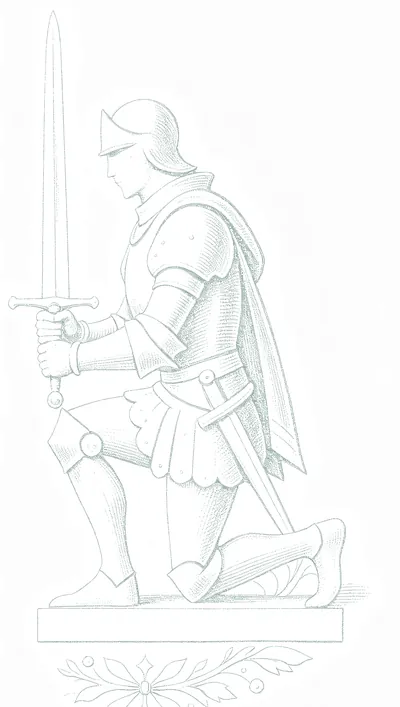
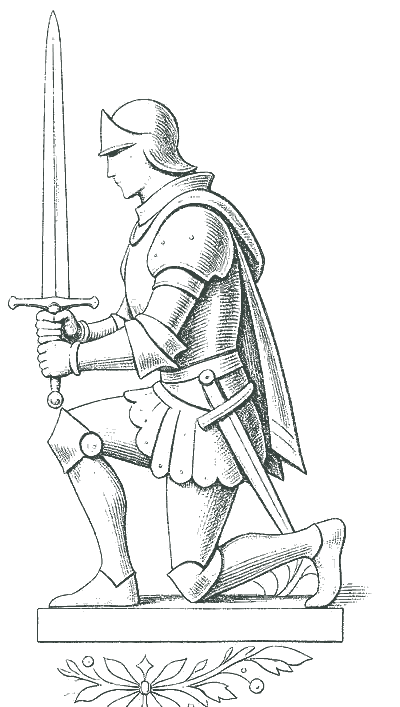
批十：猫头鹰放大 26% 并加 knOwlRise 升起动效 / 去掉挂树梢的小猫头鹰、WELCOME 下加麦穗·ADMITTED 通行印记 / 骑士内移到 9% 并把资产重制成透明底深墨

diff --git a/index.html b/index.html
@@ -577,41 +577,74 @@ img{display:block}
 #knowledgeGate .gknight img{width:100%;height:auto;display:block}
 /* ⭐ 批九：用户"这两尊骑士雕像往中间挪一点啊，别把线都压盖了"。
    ⚠ 原来 3.4%（＝17.68px）正好压住**内层那条细线**（`.env-border` inset 9px ＋ `::before` inset 8px
-   ＝ x17px ≈ 3.27%）—— 光看外层 9px 那条会以为没压到。现在 5.5%＝28.6px，余量 11.6px。 */
-#knowledgeGate .gk-l{left:5.5%}
-#knowledgeGate .gk-r{right:5.5%}
+   ＝ x17px ≈ 3.27%）—— 光看外层 9px 那条会以为没压到。
+   ⭐⭐ 批十：用户"骑士雕像往中间去点嘛，没发现都太靠边边上了嘛" → 5.5% → **9%**（46.8px），
+      离内层细线 29.8px、离信封外沿 46.8px，肉眼一看就是"站在纸面中间偏内"。
+   ⚠⚠ **尺寸不能再放大了**（批十实测）：骑士上方 4.9px 外就是左上徽章的包围盒
+      （徽章批七放大到 80px 后到 y≈89.7px），下方 3px 外是左下收件区（y≈232px）——
+      当前 14% 宽＝132px 高已经把这条竖缝占满；要"更清楚"只能**加深墨色**（见资产重制），
+      不能靠放大。
+   ⚠ 清晰度另一半在资产本身：原图是**白底扫描线稿、墨色极淡**（亮度 p5=223，乘在米纸上几乎
+      看不见），批十已把两张图重制成**透明底 ＋ 深墨**（`alpha = f(亮度)`、白底彻底透明），
+      CSS 里的 `mix-blend-mode:multiply` 保留（深墨 × 米纸＝印上去的凹版线刻）。 */
+#knowledgeGate .gk-l{left:9%}
+#knowledgeGate .gk-r{right:9%}
 #knowledgeGate.unlocked .gknight{opacity:1}
 
-/* ⭐ 批九：用户"这个位置（信封上沿偏右）太空洞了，可以加一些要素上去"。
-   加**一小段探进来的细枝 ＋ 一只小栖鸟**（都复用站内现成资产，零出图）——
-   与正中那只大猫头鹰形成"一大一小、一近一远"的呼应，也让上沿右半边不再是空白。
-   ⚠ 净空：`.gwel`（WELCOME）在 x30~70%/y3.4~7.1% ｜ 右骑士 x80.5~94.5%/y29.6% 起
-      → 本件占 x67~89% / y5~19%，都不相交。⚠ 远山（x22~88%/y7~28%）会与它叠，但那是最淡的一层。 */
-#knowledgeGate .gperch2{position:absolute;left:67%;top:5%;width:26%;z-index:5;
-  opacity:0;pointer-events:none;transition:opacity 1s ease 1.05s}
-#knowledgeGate.unlocked .gperch2{opacity:1}
-#knowledgeGate .gperch2 .gb2{display:block;width:100%;height:auto;
-  transform:scaleX(-1) rotate(-4deg);opacity:.5}
-/* 鸟的落脚点用**枝图自身实测的落脚线**（52.2%，和中央场景同一张图同一套数）→ bottom 47.8%。 */
-#knowledgeGate .gperch2 .kohx{position:absolute;bottom:47.8%;left:34%;width:13%;
-  transform:translateX(-50%)}
-#knowledgeGate .gperch2 .kohx img{display:block;width:100%;height:auto}
+/* ⭐⭐ 批十：信封上沿**偏右那支"细枝＋小栖鸟"整件删除**（批九加的）。
+   用户："把这个猫头鹰挂树梢的要素去掉，在 welcome……下加一个装饰性要素，
+   可以是英文的允许通行啊，或者像政府公文上的麦穗啊等等"。
+   → 两个建议一起用：**一对金色麦穗**（公文风的对称双穗）＋ 居中一行 **`ADMITTED`**
+     （＝允许通行），压在 `.gwel` 正下方。
+   ⭐ 麦穗是**内联 SVG**：零外部资产、零出图、无 `?v=` 要跟；右侧那支用 `scaleX(-1)`
+     镜像 → **只写一份几何**，两支严格对称。
+   ⚠ 层级：必须 `z-index ≥ 5` 且挂 `.mail-env` 下 —— 它落在封口 V（z:4）之内，
+      挂在 `.env-front`（自身 z:3）里会被整个盖掉（`.gwel` 与批九那支枝是同一个坑）。
+   ⚠ 尺寸全走 `--envH` 的百分比（信封宽高随视口变）→ 窄屏自动缩，**不需要媒体查询**。
+      麦穗 11.5% envH ≈ 桌面 40px：再小到 20px 以下时麦粒会落到 1px 内、读不出"穗"。
+   ⚠ 净空（信封坐标，桌面 520×324）：`.`gwel` y3.4~7.1% ｜ 左上徽章 x2.3~17.8%/y2.8~27.7%
+      ｜ 右上抬头 x≈70~93%/y3~17% ｜ 左右骑士 y≥29.6% ｜ 中央场景 y≥32.4%
+      → 本件占 **x38~62% / y10.2~22.5%**，四者全不相交；封口 V 在 y22.5% 处仍宽 x28.5~71.5%。 */
+#knowledgeGate .gperm{position:absolute;left:50%;top:10.2%;margin:0;z-index:5;
+  transform:translateX(-50%);display:flex;align-items:center;
+  gap:calc(var(--envH) * .026);color:rgba(158,122,52,.68);
+  opacity:0;pointer-events:none;transition:opacity .9s ease 2.3s}
+#knowledgeGate.unlocked .gperm{opacity:1}
+#knowledgeGate .gperm em{font-style:normal;font-family:var(--serif);
+  font-size:clamp(6.4px,calc(var(--envH) * .027),9.8px);letter-spacing:.3em;text-indent:.3em;
+  text-transform:uppercase;white-space:nowrap}
+#knowledgeGate .ge-wheat{display:block;height:calc(var(--envH) * .115);width:auto;
+  fill:currentColor;color:rgba(176,138,62,.62)}
+#knowledgeGate .ge-wheat.ge-mirror{transform:scaleX(-1)}
 
 /* ⭐⭐ 批九：把**"衔住信封"的大猫头鹰**接回来（用户："我猫头鹰怎么不见了？"
    —— 指信封上沿正中那块）。它是第九轮被**整只删除**的 `.perchowl`（当时为了让位给左右骑士），
-   资产 `knowledge-owl.webp` 一直留在仓库里没删，所以这次是**原图回归**、不是重画。
+   资产 `knowledge-owl.webp` 一直留在仓库里没删，所以这是**原图回归**、不是重画。
    ⭐ 几何沿用当年实测出来的"衔住"做法：容器**底边压在信封上沿**（`bottom:100%`），
    再整体下沉一段（`translateY`）→ 图的下半截落在信封纸面上，看上去像**用喙衔着信封**。
    ⚠ `--owlSink` 是"下沉比例"，与图片自身的"喙尖占比"直接相关：换图必须重核，
       不能照抄（当年 `1 − 0.644` 就是这么实测出来的）。
-   ⚠ 只在**解锁后**淡入：密封前信纸要抽出、会路过这块，猫头鹰若在场会把密码表单挡掉。
+   ⚠ 只在**解锁后**出现：密封前信纸要抽出、会路过这块，猫头鹰若在场会把密码表单挡掉。
    ⚠⚠ 层级方向与直觉相反：**它要挂在信纸之前（z 更低）**，让 `.env-front`（不透明纸、z:3）
       去遮住它的下半截 —— "从信封里探出来"的味道全在这道遮挡上。挂进 `.env-front` 会变成
-      整只浮在纸面上。 */
-#knowledgeGate .perchowl{position:absolute;left:50%;bottom:100%;width:19%;
+      整只浮在纸面上。
+   ⭐⭐ 批十（用户："太小了，并且要增加一个从信封背后缓缓升起的动效"）：
+      ① 尺寸 19% → **26%**（可见的探头从 52px 长到 88px；上方净空充足 —— 信封上沿到门顶
+         还有 ~300px，见下方"信封上沿之上"的净空账）；
+      ② 出现方式从"原地淡入"改为**关键帧升起** `knOwlRise`：起点比终点**再低 45%**（＝几乎
+         整只缩在信封后面，只露一对耳羽）→ 缓缓升到 `--owlSink`，1.6s、两端都慢
+         （`cubic-bezier(.4,.02,.28,1)`，不是弹跳）。
+   ⚠ 关键帧只写 **from/to 两帧**：`animation-timing-function` 是**逐段**生效的，
+      多写一个中间帧＝把一条缓动切成两段，段与段之间会出现速度台阶（批五是这么踩的）。
+   ⚠ `both` 不能省：延迟期间要停在 `from`（否则会先闪一下原位的猫头鹰）。 */
+#knowledgeGate .perchowl{position:absolute;left:50%;bottom:100%;width:26%;
   transform:translateX(-50%) translateY(var(--owlSink,44%));
-  opacity:0;pointer-events:none;transition:opacity 1s ease .95s}
-#knowledgeGate.unlocked .perchowl{opacity:1}
+  opacity:0;pointer-events:none}
+@keyframes knOwlRise{
+  from{opacity:0;transform:translateX(-50%) translateY(calc(var(--owlSink,44%) + 45%))}
+  to  {opacity:1;transform:translateX(-50%) translateY(var(--owlSink,44%))}}
+#knowledgeGate.unlocked .perchowl{
+  animation:knOwlRise 1.6s cubic-bezier(.4,.02,.28,1) .95s both}
 #knowledgeGate .perchowl img{width:100%;height:auto;display:block}
 
 /* ⭐ 第十轮：用户要把 WELCOME **挪到信封上部**（原来浮在信封上沿之外）。
@@ -837,13 +870,13 @@ img{display:block}
   transform-origin:center;transform:rotate(-7deg) translateY(0) scale(.94);
   filter:drop-shadow(0 2px 5px rgba(74,32,20,.26))}
 #knowledgeGate .postmark svg{width:100%;height:100%;display:block}
-/* ⚠⚠ **大猫头鹰（`.perchowl`）第九轮整块删除** —— 用户："为什么我要让合上信封的草图
-   变成左右两个骑士，就是为了**不产生压盖**"。那只"从信封背后探出的大头"正是压盖的来源：
-   它的胸口与斗篷横切封口 V 与蜡封（用户截图实锤）。现在改为**信封两侧的骑士雕像**
-   （`.gknight`，站在信封盒之外），"猫头鹰"这件事交给中央场景里的**四只小鸟**。
-   演进史留档：SVG 简绘 → 写实插画 → 绿漫画 → 棕漫画 → 写实精修 → 绘本插画 → **删除**。
-   ⚠ 资产 `assets/knowledge-owl.webp` 仍留在仓库里（已不再引用）：那几版重画很费额度，
-      留着比删掉划算 —— **别因为它"没被引用"就顺手删掉**。 */
+/* ⚠ 演进史留档（**别照这段去删猫头鹰**）：大猫头鹰（`.perchowl`）在**第九轮**曾被整块删除
+   —— 用户当时的理由是"让合上信封的草图变成左右两个骑士，就是为了**不产生压盖**"。
+   ⭐ 但**批九用户又把它要回来了**（"我猫头鹰怎么不见了？"，指信封上沿正中那块），
+      做法是"缩小到只探出一个头 ＋ 挂到信纸之前让 `.env-front` 去遮下半截"→ 压盖问题自然消失。
+      **它现在是常驻要素**（见上面 `.perchowl` 那段），别再按这条注释把它删掉。
+   演进史：SVG 简绘 → 写实插画 → 绿漫画 → 棕漫画 → 写实精修 → 绘本插画 → 删除（第九轮）
+           → **原图回归（批九）→ 放大 26% ＋ 关键帧升起（批十）**。 */
 
 /* 抽出态：封口翻起 + 信纸升起（并把前片提到信纸之上，留在信封里的那段才藏得住）
    ⚠ 封口翻起时加投影：不然它和背景纸色几乎同色，"信封开了"这件事看不见
@@ -1040,6 +1073,11 @@ img{display:block}
      4:1 的山脉放进去只有 30% 宽（一条 95px 的小土丘，读不出"远山"）。
      ⚠ 别为了"窄屏也要有"去把山压扁或裁断：那两头都吃过亏。 */
   #knowledgeGate .ghill{display:none}
+  /* ⚠ 批十：`ADMITTED` 印记在窄屏要**左移并收一档**。居中放会与右上抬头相交 8.3px
+       （窄屏抬头横得更宽：x61.3~92.8%）—— 收到 74px 宽、中心左移到 44% 后，
+       左右各留 35px / 18px 余量，与左上徽章（右缘 x68px）也不相交。 */
+  #knowledgeGate .gperm{left:44%;gap:4px}
+  #knowledgeGate .ge-wheat{height:calc(var(--envH) * .085)}
 }
 /* ⚠ 矮屏但不算窄屏（例如 1440×720）：信封矮了，可**蜡封是定尺的**（不随 vh 缩）——
    矮屏把蜡封收一档，免得它相对信封显得过大（第七轮桌面 104 → 矮屏 88）。 */
@@ -2820,11 +2858,11 @@ footer .ft-legal b{color:var(--muted);font-weight:500}
                    所以它们被放在信封盒**之外**（left/right 负值），只并肩站岗，不遮信封。
                    ⚠ 与它一起被删掉的是原来的大猫头鹰 `.perchowl`（那只才是压盖的来源）。 -->
               <span class="gknight gk-l" aria-hidden="true">
-                <img src="assets/knight-l.webp?v=20260920a" alt="" loading="lazy" decoding="async"
+                <img src="assets/knight-l.webp?v=20260921f" alt="" loading="lazy" decoding="async"
                      width="400" height="707">
               </span>
               <span class="gknight gk-r" aria-hidden="true">
-                <img src="assets/knight-r.webp?v=20260920a" alt="" loading="lazy" decoding="async"
+                <img src="assets/knight-r.webp?v=20260921f" alt="" loading="lazy" decoding="async"
                      width="400" height="707">
               </span>
               <!-- ⚠ 月桂线稿（`.env-leaf`）第七轮**整块删除** —— 用户："保留简洁学院风，
@@ -2866,18 +2904,17 @@ footer .ft-legal b{color:var(--muted);font-weight:500}
                  ⚠ 必须挂在这里（`.mail-env` 的子级、与封口同级）并给 z-index:5：
                     它正好落在封口 V 覆盖的范围内，封口是 z:4 —— 放 `.env-front` 里
                     会被整个盖掉（父级 z:3 的子元素压不过兄弟层）。 -->
-            <!-- ⭐ 批九：上沿偏右 —— 一小段探进来的细枝 ＋ 一只小栖鸟。
-                 ⚠⚠ **必须挂在这里（`.mail-env` 下）＋ z-index ≥ 5**：封口 V 是 z:4，
-                    而 `.env-front` 自身 z:3 是个 stacking context —— 挂在它里面的话，
-                    子树里 z-index 再高也压不过封口，整件会被那个三角盖得看不见（实测过）。
-                    这和 `.gwel` 当年踩的坑是同一个。 -->
-            <span class="gperch2" aria-hidden="true">
-              <img class="gb2" src="assets/branch-fade.webp?v=20260921e" alt=""
-                   loading="lazy" decoding="async">
-              <span class="kohx"><img src="assets/owl-line.webp?v=20260921b" alt=""
-                   loading="lazy" decoding="async"></span>
-            </span>
             <p class="gwel">WELCOME TO KNOWLEDGE&#39;S SEA</p>
+            <!-- ⭐⭐ 批十：`.gwel` 正下方的**通行印记**＝一对金色麦穗 ＋ 居中 `ADMITTED`。
+                 用户："把这个猫头鹰挂树梢的要素去掉，在 welcome……下加一个装饰性要素，
+                 可以是英文的允许通行啊，或者像政府公文上的麦穗啊等等"。
+                 ⚠ 麦穗是**手写内联 SVG**（非图片资产）：`path` 是主秆、13 个 `ellipse` 是麦粒
+                    （7 对 ±30° 外倾 ＋ 1 枚顶粒），右侧那支靠 CSS `scaleX(-1)` 镜像取得对称。
+                 ⚠⚠ 必须挂在这里（`.mail-env` 下）＋ z-index ≥ 5：它落在封口 V（z:4）之内，
+                    `.env-front` 自身 z:3 是 stacking context —— 挂进去会被三角整个盖掉。
+                 ⚠ `ADMITTED` 是"允许通行"的英文写法，与上一行的 WELCOME 连成一句
+                    "欢迎来到知识之海 · 准予通行"；**解锁后**才浮现（延迟 2.3s，接在 WELCOME 之后）。 -->
+            <p class="gperm" aria-hidden="true"><svg class="ge-wheat" viewBox="0 0 20 44" aria-hidden="true"><path d="M7.4 41.5C7.2 33 9.4 18 12.0 6.4" fill="none" stroke="currentColor" stroke-width="1.3" stroke-linecap="round"/><ellipse cx="4.87" cy="36.74" rx="1.32" ry="3.02" transform="rotate(-35 4.87 36.74)"/><ellipse cx="8.97" cy="36.74" rx="1.32" ry="3.02" transform="rotate(25 8.97 36.74)"/><ellipse cx="5.09" cy="32.18" rx="1.32" ry="3.02" transform="rotate(-35 5.09 32.18)"/><ellipse cx="9.19" cy="32.18" rx="1.32" ry="3.02" transform="rotate(25 9.19 32.18)"/><ellipse cx="5.51" cy="27.61" rx="1.32" ry="3.02" transform="rotate(-35 5.51 27.61)"/><ellipse cx="9.61" cy="27.61" rx="1.32" ry="3.02" transform="rotate(25 9.61 27.61)"/><ellipse cx="6.10" cy="23.05" rx="1.32" ry="3.02" transform="rotate(-35 6.10 23.05)"/><ellipse cx="10.20" cy="23.05" rx="1.32" ry="3.02" transform="rotate(25 10.20 23.05)"/><ellipse cx="6.83" cy="18.49" rx="1.32" ry="3.02" transform="rotate(-35 6.83 18.49)"/><ellipse cx="10.93" cy="18.49" rx="1.32" ry="3.02" transform="rotate(25 10.93 18.49)"/><ellipse cx="7.67" cy="13.92" rx="1.32" ry="3.02" transform="rotate(-35 7.67 13.92)"/><ellipse cx="11.77" cy="13.92" rx="1.32" ry="3.02" transform="rotate(25 11.77 13.92)"/><ellipse cx="8.61" cy="9.36" rx="1.32" ry="3.02" transform="rotate(-35 8.61 9.36)"/><ellipse cx="12.71" cy="9.36" rx="1.32" ry="3.02" transform="rotate(25 12.71 9.36)"/><ellipse cx="12.00" cy="5.80" rx="1.39" ry="3.56" transform="rotate(5 12.00 5.80)"/></svg><em>Admitted</em><svg class="ge-wheat ge-mirror" viewBox="0 0 20 44" aria-hidden="true"><path d="M7.4 41.5C7.2 33 9.4 18 12.0 6.4" fill="none" stroke="currentColor" stroke-width="1.3" stroke-linecap="round"/><ellipse cx="4.87" cy="36.74" rx="1.32" ry="3.02" transform="rotate(-35 4.87 36.74)"/><ellipse cx="8.97" cy="36.74" rx="1.32" ry="3.02" transform="rotate(25 8.97 36.74)"/><ellipse cx="5.09" cy="32.18" rx="1.32" ry="3.02" transform="rotate(-35 5.09 32.18)"/><ellipse cx="9.19" cy="32.18" rx="1.32" ry="3.02" transform="rotate(25 9.19 32.18)"/><ellipse cx="5.51" cy="27.61" rx="1.32" ry="3.02" transform="rotate(-35 5.51 27.61)"/><ellipse cx="9.61" cy="27.61" rx="1.32" ry="3.02" transform="rotate(25 9.61 27.61)"/><ellipse cx="6.10" cy="23.05" rx="1.32" ry="3.02" transform="rotate(-35 6.10 23.05)"/><ellipse cx="10.20" cy="23.05" rx="1.32" ry="3.02" transform="rotate(25 10.20 23.05)"/><ellipse cx="6.83" cy="18.49" rx="1.32" ry="3.02" transform="rotate(-35 6.83 18.49)"/><ellipse cx="10.93" cy="18.49" rx="1.32" ry="3.02" transform="rotate(25 10.93 18.49)"/><ellipse cx="7.67" cy="13.92" rx="1.32" ry="3.02" transform="rotate(-35 7.67 13.92)"/><ellipse cx="11.77" cy="13.92" rx="1.32" ry="3.02" transform="rotate(25 11.77 13.92)"/><ellipse cx="8.61" cy="9.36" rx="1.32" ry="3.02" transform="rotate(-35 8.61 9.36)"/><ellipse cx="12.71" cy="9.36" rx="1.32" ry="3.02" transform="rotate(25 12.71 9.36)"/><ellipse cx="12.00" cy="5.80" rx="1.39" ry="3.56" transform="rotate(5 12.00 5.80)"/></svg></p>
             <!-- 封口：内嵌 SVG 画这个三角（**不用 clip-path** —— 它会把两条斜边上的描边整条切掉，
                  所以之前那两条边是"硬切"的、很假）。
                  ⚠ 第二版把三条边从**直线改成微微内凹的曲线**（2026-09-20 用户："上部分还是太违和了"）：
@@ -3139,6 +3176,6 @@ footer .ft-legal b{color:var(--muted);font-weight:500}
 
 <script src="docs.js?v=20260920c"></script>
 <script src="app.js?v=20260920f"></script>
-<script src="knowledge.js?v=20260921e"></script>
+<script src="knowledge.js?v=20260921f"></script>
 </body>
 </html>

diff --git a/knowledge.js b/knowledge.js
@@ -797,8 +797,8 @@ function warmGateImages() {
     "assets/knowledge-owl.webp?v=20260921e",
     "assets/hills-far.webp?v=20260921d",
     "assets/knowledge-bg.jpg?v=20260920a",
-    "assets/knight-l.webp?v=20260920a",
-    "assets/knight-r.webp?v=20260920a"
+    "assets/knight-l.webp?v=20260921f",
+    "assets/knight-r.webp?v=20260921f"
   ];
   list.forEach(function (u) {
     var im = new Image();
